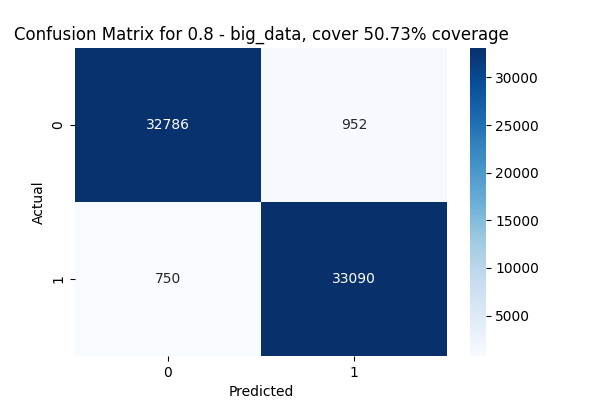
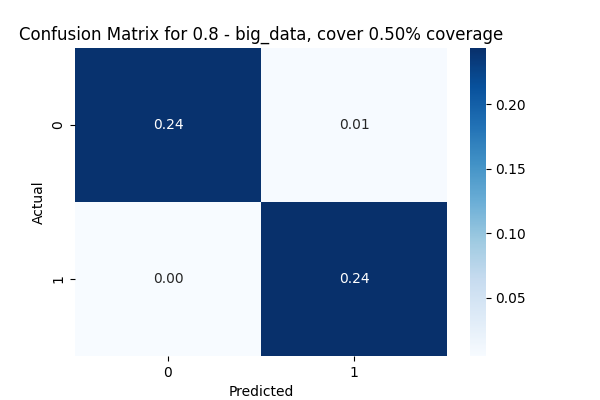
finish

diff --git a/transformer/BERT.py b/transformer/BERT.py
@@ -20,6 +20,7 @@ import seaborn as sns
 import config
 from shutil import rmtree
 
+
 class BertPrediction:
     def __init__(
         self,
@@ -29,7 +30,9 @@ class BertPrediction:
         max_accuracy = -1
         fold = 1
         for i, folder in enumerate(os.listdir(f"./BERT/figures/model_v{version}")):
-            with open(f"./BERT/figures/model_v{version}/{folder}/metrics_{folder}.txt", "r") as f:
+            with open(
+                f"./BERT/figures/model_v{version}/{folder}/metrics_{folder}.txt", "r"
+            ) as f:
                 text = f.readline()
                 accuracy = float(text.split()[1])
                 if accuracy > max_accuracy:
@@ -39,8 +42,10 @@ class BertPrediction:
             raise FileNotFoundError(
                 f"No valid metrics folder found. Please check your BERT/figures/model_v{version} folder"
             )
-        logging.info(f"Using best distilBERT model at fold {fold} with accuracy {max_accuracy}.")
-        
+        logging.info(
+            f"Using best distilBERT model at fold {fold} with accuracy {max_accuracy}."
+        )
+
         model_dir = f"./BERT/finetuned_models/model_v{version}/fold_{fold}"
         self.tokenizer = AutoTokenizer.from_pretrained(
             "distilbert/distilbert-base-uncased",
@@ -94,9 +99,9 @@ class BERTrainer:
             logging.info("Use all dataset for training")
 
         if use_threshold:
-            logging.info(f"Structure of filtered dataset:")
+            logging.info("Structure of filtered dataset:")
             self.df.info(verbose=True)
-        self.df = self.df[["text", "label"]] # Keep only raw text and label
+        self.df = self.df[["text", "label"]]  # Keep only raw text and label
 
         self.model_name = model_name
         self.version = version
@@ -110,9 +115,7 @@ class BERTrainer:
         dataset = Dataset.from_pandas(self.df[["text", "label"]])
 
         # Tokenize HF datasets, this is the dataset that will be used in training and evaluating
-        self.tokenized_dataset = dataset.map(
-            self.tokenize_function, batched=True
-        )
+        self.tokenized_dataset = dataset.map(self.tokenize_function, batched=True)
 
         # Initialize K-Fold for cross validation
         logging.info(f"Initialize cross validation using {k} folds")
@@ -200,7 +203,7 @@ class BERTrainer:
 
     def train(
         self,
-        dataloader_num_workers: int = 4, # Change according the the amount of system ram
+        dataloader_num_workers: int = 4,  # Change according the the amount of system ram
         learning_rate: float = 5e-6,
         per_device_train_batch_size: int = 16,
         per_device_eval_batch_size: int = 128,
@@ -218,7 +221,9 @@ class BERTrainer:
         rmtree("BERT/training_results", ignore_errors=True)
 
         # Begin training
-        for fold, (train_idx, val_idx) in enumerate(self.kf.split(self.df, self.df['label'])):
+        for fold, (train_idx, val_idx) in enumerate(
+            self.kf.split(self.df, self.df["label"])
+        ):
             logging.info(f"Fold {fold + 1}")
 
             training_args = TrainingArguments(
@@ -258,7 +263,7 @@ class BERTrainer:
                 label2id={0: 0, 1: 1},
                 id2label={0: 0, 1: 1},
             )
-            
+
             self.logger_callback = self.LossAccuracyLogger()
             self.trainer = Trainer(
                 model=self.model,
@@ -277,7 +282,9 @@ class BERTrainer:
             logging.info(f"Evaluation accuracy: {results['eval_accuracy']}")
             logging.info(f"Evaluation loss: {results['eval_loss']}")
 
-            model_path = f"./BERT/finetuned_models/{self.finetuned_model_name}/fold_{fold + 1}"
+            model_path = (
+                f"./BERT/finetuned_models/{self.finetuned_model_name}/fold_{fold + 1}"
+            )
             plot_path = f"./BERT/figures/{self.finetuned_model_name}/fold_{fold + 1}"
             # Create output dir for models and plots
             os.makedirs(model_path, exist_ok=True)
@@ -312,9 +319,9 @@ class BERTrainer:
             )
 
             # 3. Confusion matrix
-            cm = confusion_matrix(labels, preds, normalize='true')
+            cm = confusion_matrix(labels, preds, normalize="all")
 
-             # 4. Save metrics
+            # 4. Save metrics
             with open(f"{plot_path}/metrics_fold_{fold + 1}.txt", "w") as f:
                 f.write(f"Accuracy: {acc:.4f}\n")
                 f.write(f"Precision: {precision:.4f}\n")
@@ -340,6 +347,7 @@ class BERTrainer:
             plt.savefig(f"{plot_path}/confusion_matrix_fold_{fold + 1}.png")
             plt.close()
             logging.info("Saved confustion matrix")
-    
+
         # Clean up space after training
         rmtree("BERT/training_results", ignore_errors=True)
+        return {"y_true": labels, "y_pred": preds, "dataset_name": "distilBERT"}

diff --git a/main.py b/main.py
@@ -14,15 +14,23 @@ logging.basicConfig(level=logging.INFO)
 logger = logging.getLogger(__name__)
 
 
-def plot_confusion_matrix(result_dict, dataset_name):
-    conf_mat = confusion_matrix(result_dict["y_true"], result_dict["y_pred"])
+def plot_confusion_matrix(result_dict: dict, model_name: str = None):
+    conf_mat = confusion_matrix(
+        result_dict["y_true"], result_dict["y_pred"], normalize="all"
+    )
+    if model_name == "Random Forest":
+        conf_mat *= result_dict["coverage_percentage"]
+
+    if model_name == "distilBERT":
+        conf_mat *= 1 - result_dict["coverage_percentage"]
+
     labels = sorted(list(set(result_dict["y_true"]) | set(result_dict["y_pred"])))
 
     plt.figure(figsize=(6, 4))
     sns.heatmap(
         conf_mat,
         annot=True,
-        fmt="d",
+        fmt=".3f",
         cmap="Blues",
         xticklabels=labels,
         yticklabels=labels,
@@ -30,10 +38,10 @@ def plot_confusion_matrix(result_dict, dataset_name):
     plt.xlabel("Predicted")
     plt.ylabel("Actual")
     plt.title(
-        f'Confusion Matrix for {result_dict["threshold"]} - {dataset_name}, cover {result_dict["coverage_percentage"]:.2f}% coverage'
+        f'Confusion Matrix for {result_dict["threshold"]} - {model_name}, cover {result_dict["coverage_percentage"]:.2f}% coverage'
     )
     plot_filename = (
-        f"plots/confusion_matrix_{dataset_name}_{result_dict['threshold']}.png"
+        f"plots/confusion_matrix_{model_name}_{result_dict['threshold']}.png"
     )
     os.makedirs("plots", exist_ok=True)
     plt.savefig(plot_filename)
@@ -42,16 +50,16 @@ def plot_confusion_matrix(result_dict, dataset_name):
 
 def main(big_data: bool = False, recreate: bool = False, skiprf: bool = False):
     if big_data:
-        dataset_name = "big_data"
+        model_name = "Random Forest"
         logger.info("Running in big data mode.")
         if not skiprf:
-            result_dict = big_data_pipeline(dataset_name, recreate)
-            if result_dict is None:
+            rf_result = big_data_pipeline(model_name, recreate)
+            if rf_result is None:
                 logger.error("Skipping dataset due to result error.")
             else:
-                plot_confusion_matrix(result_dict, dataset_name)
+                plot_confusion_matrix(rf_result, model_name)
         trainer = BERTrainer(use_threshold=True, version="1")
-        trainer.train(
+        bert_result = trainer.train(
             save_model_threshold=0.8,
             learning_rate=5e-6,
             per_device_train_batch_size=32,
@@ -61,8 +69,32 @@ def main(big_data: bool = False, recreate: bool = False, skiprf: bool = False):
             save_steps=800,
             eval_strategy="epoch",
             save_strategy="best",
-            dataloader_num_workers=4
+            dataloader_num_workers=4,
         )
+        plot_confusion_matrix(bert_result, bert_result["model_name"])
+        logger.info("BERT model trained and confusion matrix plotted.")
+
+        # Hard Code every stuff
+        rf_conf_mat = confusion_matrix(rf_result["y_true"], rf_result["y_pred"])
+        bert_conf_mat = confusion_matrix(bert_result["y_true"], bert_result["y_pred"])
+        total_conf_mat = rf_conf_mat + bert_conf_mat
+        labels = sorted(list(set(rf_result["y_true"]) | set(rf_result["y_pred"])))
+        plt.figure(figsize=(6, 4))
+        sns.heatmap(
+            total_conf_mat,
+            annot=True,
+            fmt=".3f",
+            cmap="Blues",
+            xticklabels=labels,
+            yticklabels=labels,
+        )
+        plt.xlabel("Predicted")
+        plt.ylabel("Actual")
+        plt.title("Confusion Matrix for all test data - Hybrid Model")
+        plot_filename = "plots/confusion_matrix_hybrid.png"
+        os.makedirs("plots", exist_ok=True)
+        plt.savefig(plot_filename)
+        plt.close()
 
     else:
         logger.info("Running in normal mode.")

diff --git a/modeling/random_forest.py b/modeling/random_forest.py
@@ -4,6 +4,7 @@ import os
 import config
 from sklearn.ensemble import RandomForestClassifier
 from sklearn.feature_extraction.text import TfidfVectorizer
+from sklearn.model_selection import KFold, RandomizedSearchCV
 from sklearn.pipeline import Pipeline
 import joblib
 
@@ -20,9 +21,30 @@ class RandomForestModel:
                 ("rf", RandomForestClassifier(**params)),
             ]
         )
+        self.params = params
+
+    def _get_cv_search_object(self):
+        return RandomizedSearchCV(
+            estimator=self.pipeline,
+            param_distributions=config.RANDOM_FOREST_GRID_PARAMS,
+            n_iter=10,  # Number of parameter settings that are sampled
+            cv=3,
+            scoring="accuracy",
+            random_state=42,
+            n_jobs=-1,
+            verbose=3,
+            refit=True,
+            return_train_score=True,
+        )
 
     def train(self, x_train, y_train):
-        self.pipeline.fit(x_train, y_train)
+        if self.params is None:
+            logger.info("Starting RandomizedSearchCV for hyperparameter tuning")
+            random_search = self._get_cv_search_object()
+            random_search.fit(x_train, y_train)
+            self.pipeline = random_search.best_estimator_
+        else:
+            self.pipeline.fit(x_train, y_train)
         self.model_class = self.pipeline.named_steps["rf"].classes_
 
     def predict(self, x_test):
@@ -51,7 +73,6 @@ class RandomForestModel:
     def save_low_confidence_to_csv(
         self,
         x,
-        # threshold=0.5,
         cleaned_data=None,
         csv_path=config.BIG_DATA_FILE_CLEANED,
     ):
@@ -59,20 +80,6 @@ class RandomForestModel:
         cleaned_data["confidence"] = np.max(y_pred, axis=1).tolist()
         cleaned_data.to_csv(csv_path, index=False)
         logger.info(f"Low confidence samples saved to {csv_path}")
-        # high_confidence_mask = np.max(y_pred, axis=1) > threshold
-        # low_confidence_mask = ~high_confidence_mask
-        # low_confidence_data = cleaned_data.loc[low_confidence_mask].reset_index(
-        #     drop=True
-        # )
-
-        # try:
-        #     os.makedirs(os.path.dirname(csv_path), exist_ok=True)
-        #     if os.path.isdir(csv_path):
-        #         os.rmdir(csv_path)
-        #     low_confidence_data.to_csv(csv_path, index=False)
-        #     logging.info(f"{dataset_name}: Low confidence samples saved to {csv_path}")
-        # except Exception as e:
-        #     logging.error(f"Error saving low confidence samples: {e}")
 
     def save_model(self, output_dir, dataset_name):
         """

diff --git a/config.py b/config.py
@@ -72,12 +72,33 @@ MAPPING = {
 }
 
 RANDOM_FOREST_PARAMS = {
-    "min_samples_leaf": 1,
+    "n_estimators": 100,
+    "min_samples_leaf": 2,
+    "min_samples_split": 2,
+    "criterion": "gini",
     "max_features": "sqrt",
     "random_state": 42,
+    "max_depth": None,
     "n_jobs": -1,
+    "bootstrap": True,
     "verbose": 1,
 }
+
+RANDOM_FOREST_GRID_PARAMS = {
+    "rf__n_estimators": [100, 200, 500],  # Number of trees
+    "rf__criterion": ["gini", "entropy"],  # Split criterion
+    "rf__max_depth": [10, 20, None],  # Max depth of trees (None means unlimited)
+    "rf__min_samples_split": [2, 5, 10],  # Minimum samples to split a node
+    "rf__min_samples_leaf": [1, 2, 4],  # Minimum samples at a leaf node
+    "rf__max_features": [
+        "sqrt",
+        "log2",
+    ],
+    "rf__bootstrap": [True],
+}
+
+N_SPLITS = 5
+
 MAX_FEATURES = 2000
 PROBABILITY_THRESHOLD = 0.8
 

diff --git a/pipeline/core.py b/pipeline/core.py
@@ -76,7 +76,7 @@ def run_pipeline_for_dataset(dataset_name: str):
     return filtered_output
 
 
-def big_data_pipeline(dataset_name: str, recreate: bool = False):
+def big_data_pipeline(model_name: str, recreate: bool = False):
     """Runs the pipeline for big data."""
     big_data = load_big_data_csv(recreate)
 
@@ -118,6 +118,6 @@ def big_data_pipeline(dataset_name: str, recreate: bool = False):
 
     # 6. Save Model
     models_dir = os.path.join(config.PROJECT_ROOT, "models")
-    model.save_model(models_dir, dataset_name)
+    model.save_model(models_dir, model_name)
 
     return filtered_output

diff --git a/frontend/app.py b/frontend/app.py
@@ -23,10 +23,11 @@ from data_processing.cleaning import BaseDataCleaner
 cleaner = BaseDataCleaner()
 label_transform = {"1": "Positive", "0": "Negative"}
 
+
 @st.cache_resource
 def load_model():
     try:
-        model_path = os.path.join(config.PROJECT_ROOT, "models", "big_data.pkl")
+        model_path = os.path.join(config.PROJECT_ROOT, "models", "Random Forest.pkl")
         model_path = os.path.abspath(model_path)
         ml_model = joblib.load(model_path)
         return ml_model, BertPrediction(version="1")
